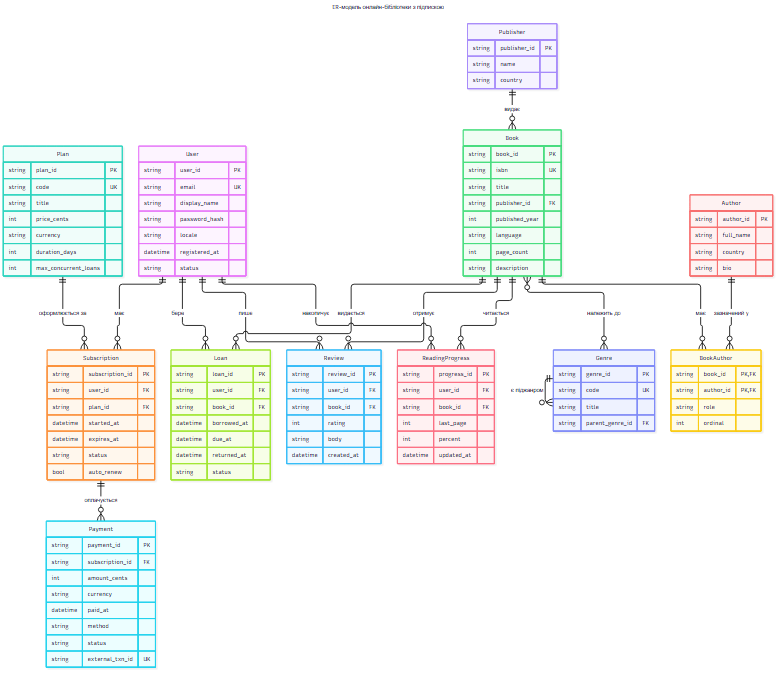
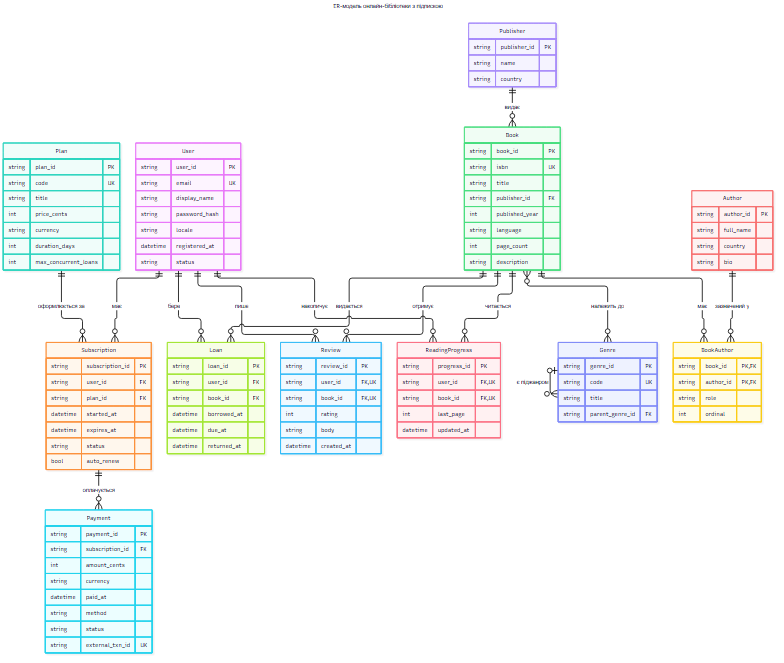
lab1: fix - genre parent cardinality allows root genres

diff --git a/Labs/lab1-er/spec.md b/Labs/lab1-er/spec.md
@@ -69,7 +69,7 @@
 | Book — BookAuthor | 1 : N | асоціативна сутність |
 | Author — BookAuthor | 1 : N | асоціативна сутність |
 | Book — Genre | M : N | чистий зв'язок, без власних атрибутів |
-| Genre — Genre | 1 : N | ієрархія жанрів, self-reference |
+| Genre — Genre | 0..1 : N | ієрархія жанрів, self-reference; кореневі жанри не мають батька |
 | User — Loan | 1 : N | |
 | Book — Loan | 1 : N | |
 | User — Review | 1 : N | |
@@ -90,6 +90,8 @@
 - [ ] Зв'язок Book — Author подано як асоціативну сутність `BookAuthor`, бо зв'язок несе власні атрибути `role` і `ordinal`
 - [ ] Назви атрибутів у spec і в `model/er.mmd` збігаються символ у символ
 - [ ] Кардинальності на діаграмі відповідають таблиці вище
+- [ ] Кардинальність самозв'язку `Genre` допускає жанр без батька (кореневі
+      жанри) — `|o--o{`, а не `||--o{`
 - [ ] Немає сутностей, не з'єднаних із рештою моделі
 - [ ] Рендер у `renders/` збігається з `model/er.mmd`
 - [ ] Немає фізичної схеми БД (SQL DDL / ORM) — лише концептуальна модель
